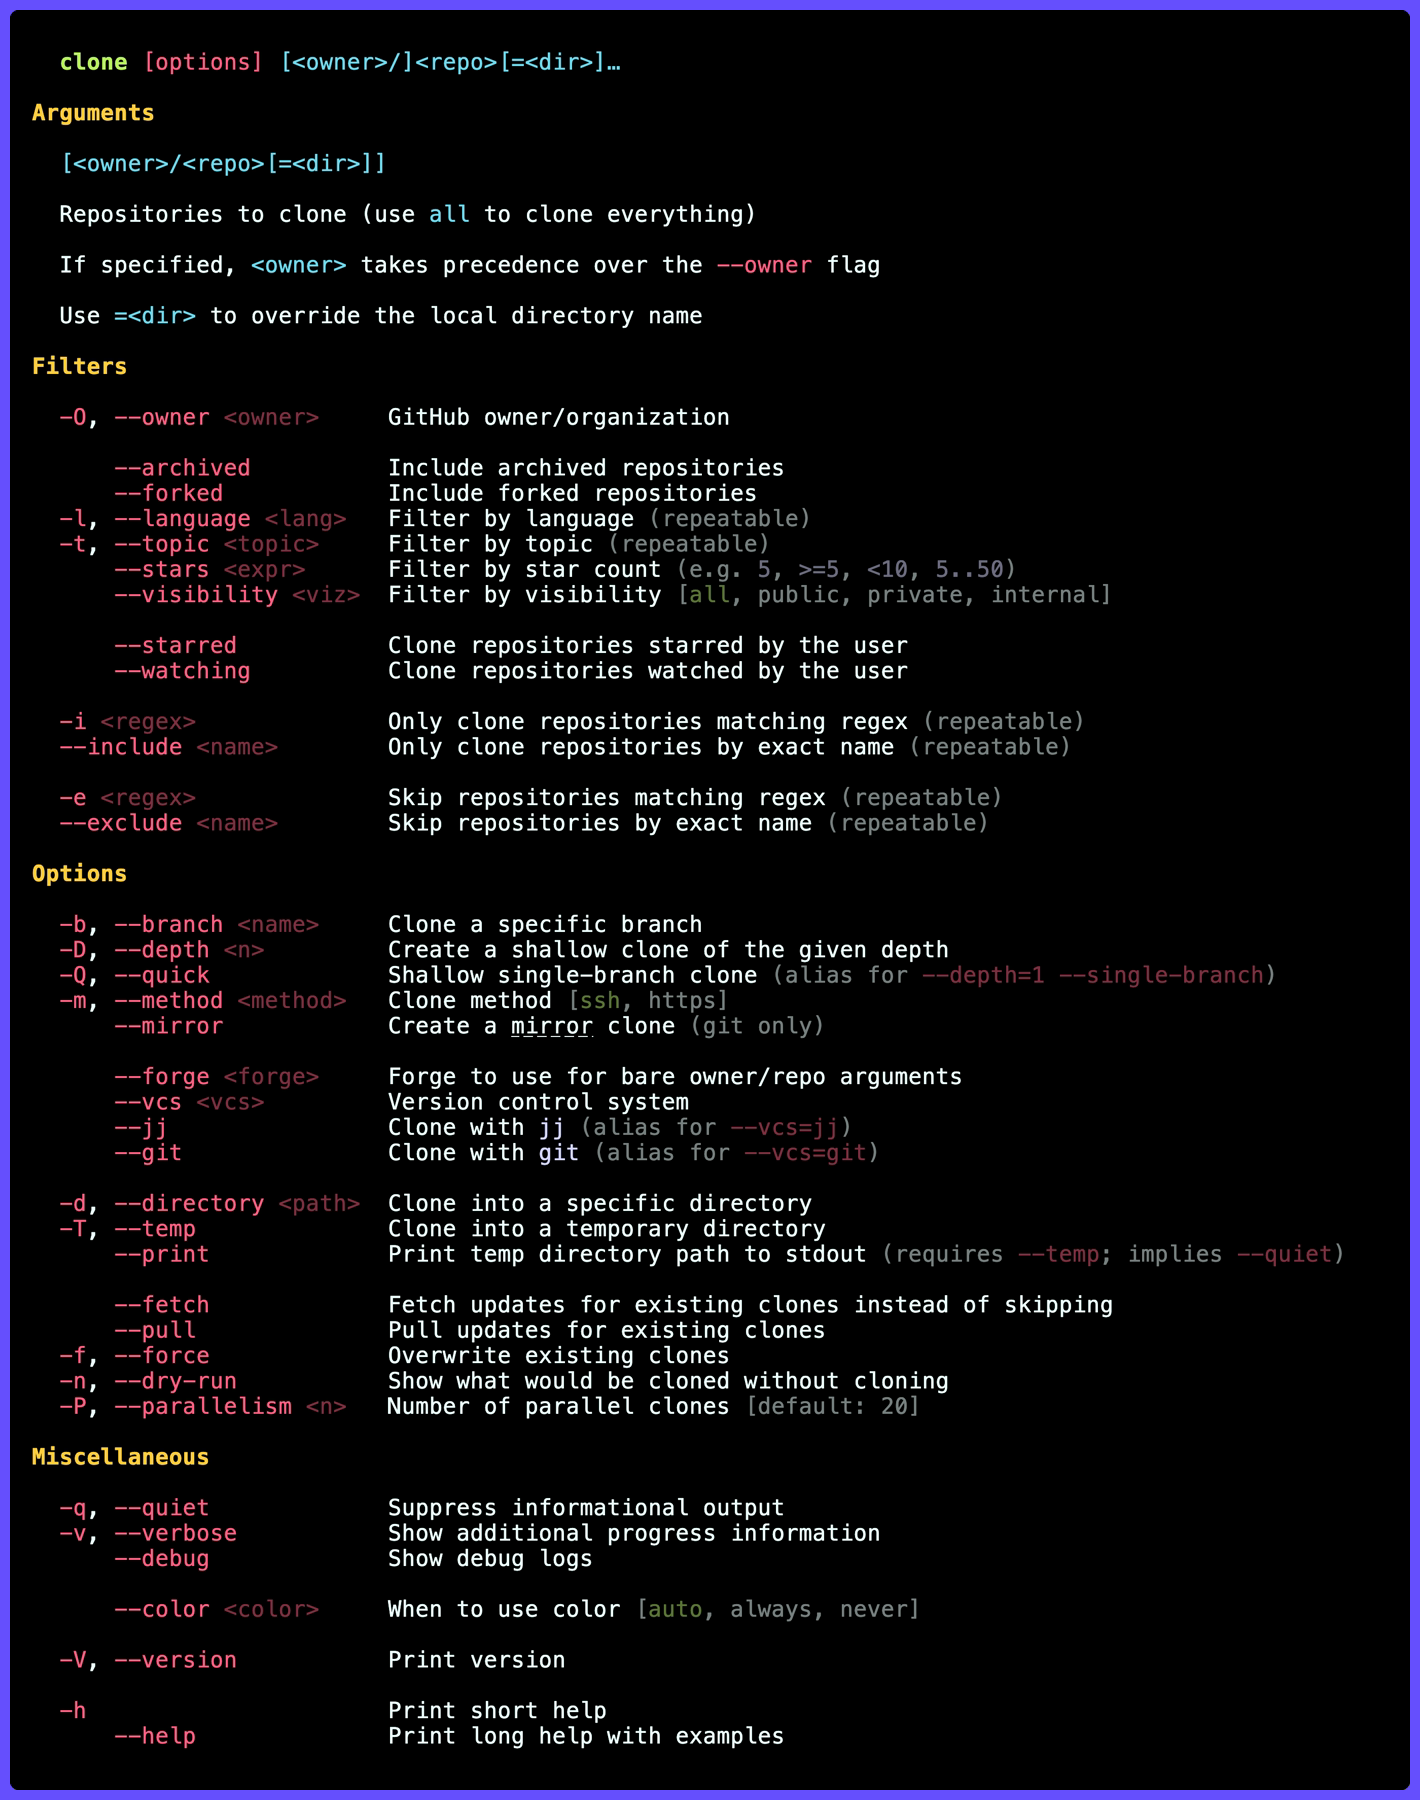
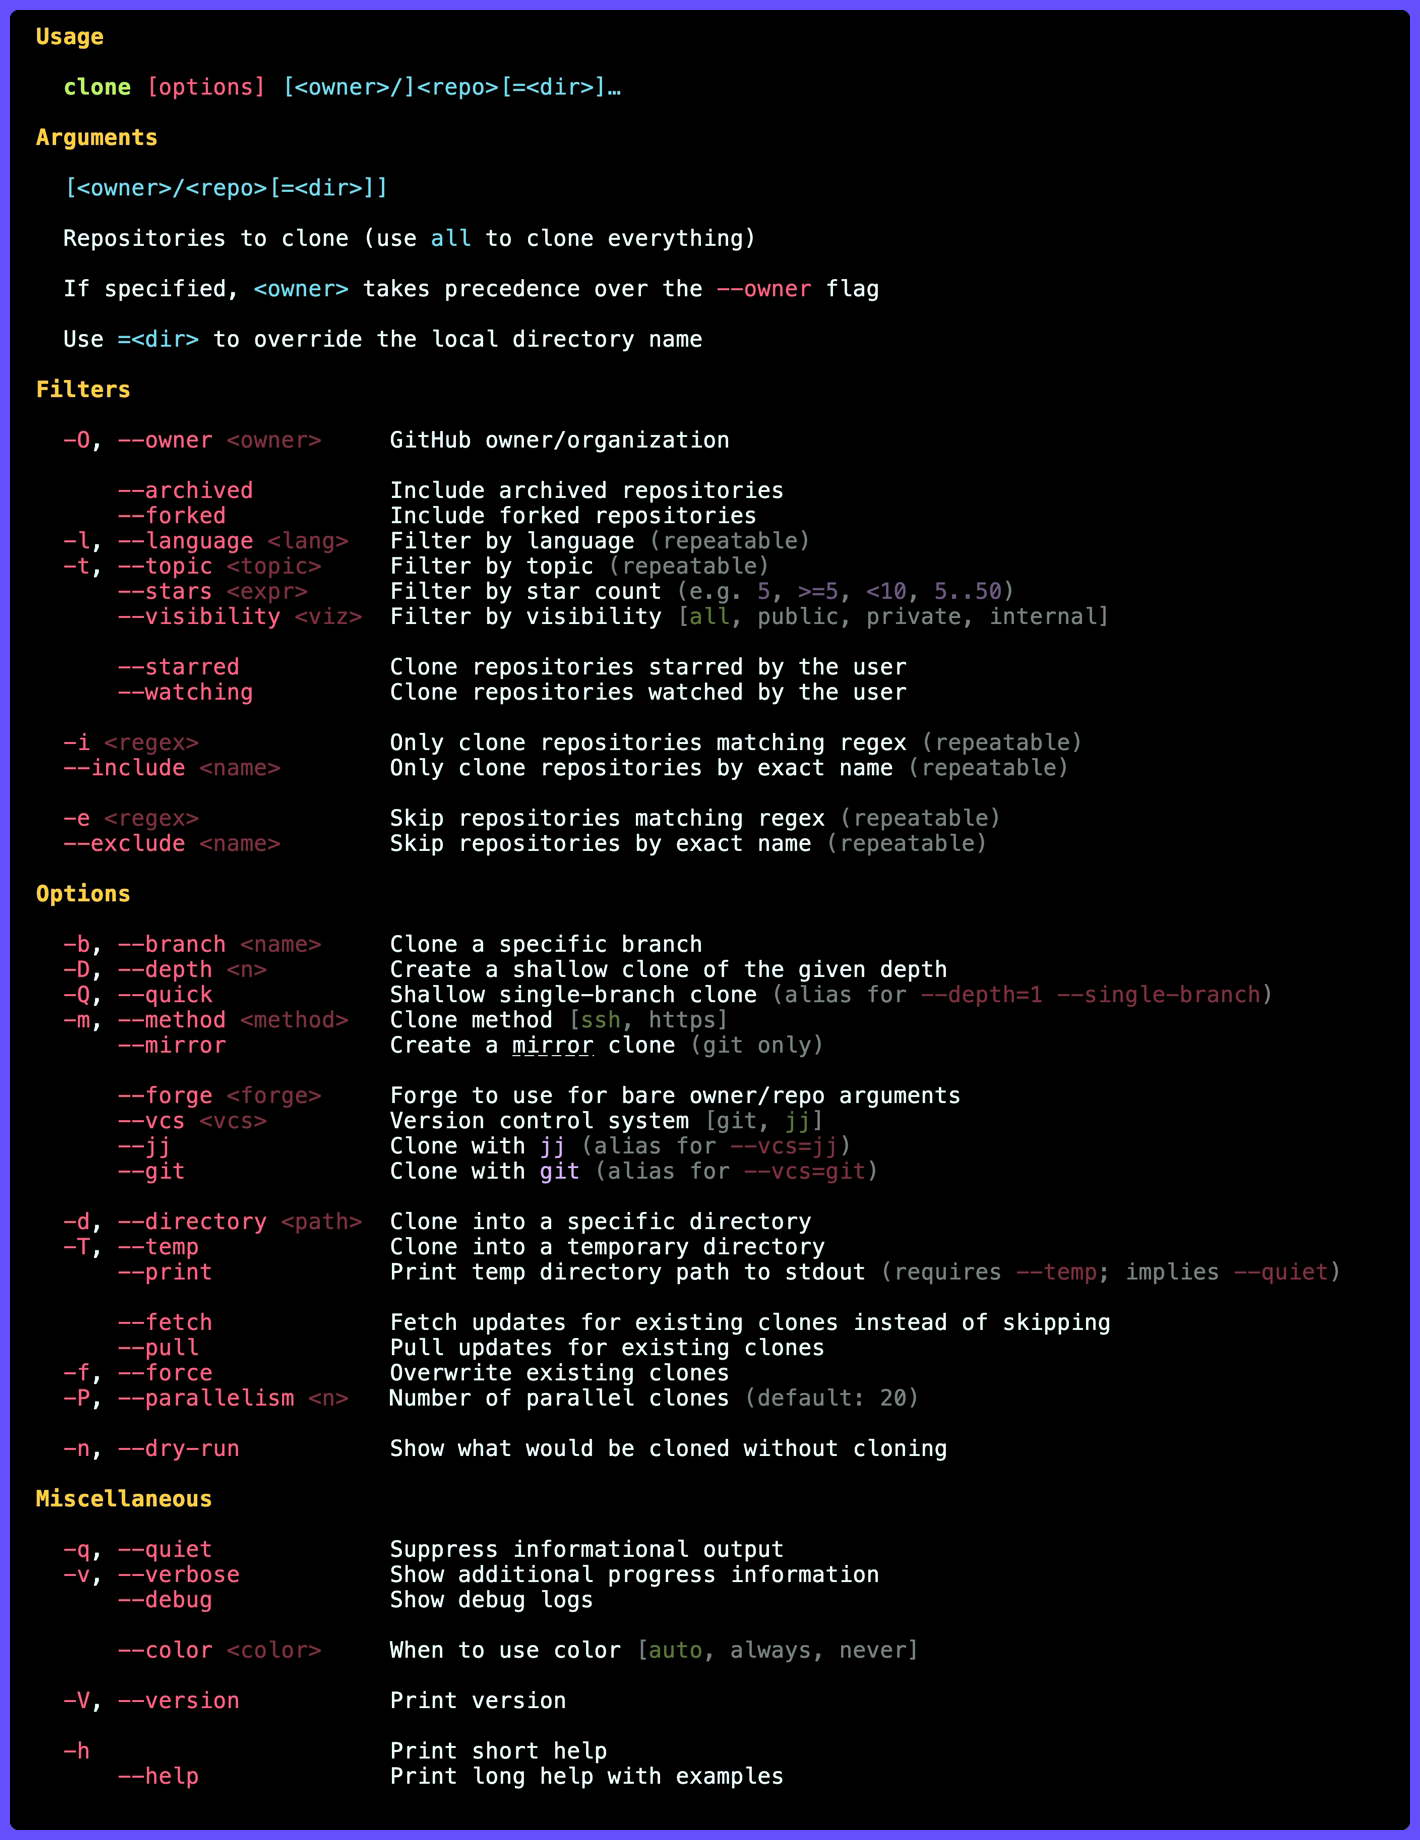
cli: Remove redundant `name:` struct tags

diff --git a/cli.go b/cli.go
@@ -4,7 +4,6 @@ import (
 	"fmt"
 	"os"
 	"slices"
-	"strconv"
 	"strings"
 
 	"github.com/alecthomas/kong"
@@ -37,17 +36,17 @@ type CLI struct {
 
 	Repos []string `name:"repo" help:"Repositories to clone." arg:"" optional:""`
 
-	Owner string `name:"owner" help:"GitHub owner/organization" short:"O" aliases:"org,organization" placeholder:"<owner>" clib:"terse='Owner/org',group='Filters/1'" env:"CLONE_OWNER"`
+	Owner string `help:"GitHub owner/organization" short:"O" aliases:"org,organization" placeholder:"<owner>" clib:"terse='Owner/org',group='Filters/1'" env:"CLONE_OWNER"`
 
-	Archived   bool     `name:"archived"   help:"Include archived repositories"   aliases:"archive,archives" clib:"terse='Include archived',group='Filters/2'"`
-	Forked     bool     `name:"forked"     help:"Include forked repositories"     aliases:"fork,forks"       clib:"terse='Include forked',group='Filters/2'"`
-	Languages  []string `name:"language"   help:"Filter by language (repeatable)"                            clib:"terse='Language',group='Filters/2'"         short:"l" placeholder:"<lang>"`
-	Topics     []string `name:"topic"      help:"Filter by topic (repeatable)"                               clib:"terse='Topic',group='Filters/2'"            short:"t" placeholder:"<topic>"`
-	Stars      string   "name:\"stars\"     help:\"Filter by star count (e.g. `5`, `>=5`, `<10`, `5..50`)\"                      clib:\"terse='Stars',group='Filters/2'\"                   placeholder:\"<expr>\""
-	Visibility string   `name:"visibility" help:"Filter by visibility"            aliases:"viz"              clib:"terse='Visibility',group='Filters/2'"                 placeholder:"<viz>"   default:"all" enum:"all,public,private,internal"`
+	Archived   bool     `help:"Include archived repositories"   aliases:"archive,archives" clib:"terse='Include archived',group='Filters/2'"`
+	Forked     bool     `help:"Include forked repositories"     aliases:"fork,forks"       clib:"terse='Include forked',group='Filters/2'"`
+	Languages  []string `help:"Filter by language (repeatable)"                            clib:"terse='Language',group='Filters/2'"         name:"language" short:"l" placeholder:"<lang>"`
+	Topics     []string `help:"Filter by topic (repeatable)"                               clib:"terse='Topic',group='Filters/2'"            name:"topic"    short:"t" placeholder:"<topic>"`
+	Stars      string   "help:\"Filter by star count (e.g. `5`, `>=5`, `<10`, `5..50`)\"                      clib:\"terse='Stars',group='Filters/2'\"                   placeholder:\"<expr>\""
+	Visibility string   `help:"Filter by visibility"            aliases:"viz"              clib:"terse='Visibility',group='Filters/2'"                                 placeholder:"<viz>"   default:"all" enum:"all,public,private,internal"`
 
-	Starred  bool `name:"starred"  help:"Clone repositories starred by the user" clib:"terse='Starred',group='Filters/3'"`
-	Watching bool `name:"watching" help:"Clone repositories watched by the user" clib:"terse='Watching',group='Filters/3'"`
+	Starred  bool `help:"Clone repositories starred by the user" clib:"terse='Starred',group='Filters/3'"`
+	Watching bool `help:"Clone repositories watched by the user" clib:"terse='Watching',group='Filters/3'"`
 
 	IncludePatterns []string `name:"include-pattern" help:"Only clone repositories matching regex (repeatable)" short:"i" placeholder:"<regex>" clib:"hide-long,terse='Include (regex)',group='Filters/4'"`
 	Includes        []string `name:"include"         help:"Only clone repositories by exact name (repeatable)"            placeholder:"<name>"  clib:"no-indent,terse='Include',group='Filters/4'"`
@@ -55,31 +54,32 @@ type CLI struct {
 	ExcludePatterns []string `name:"exclude-pattern" help:"Skip repositories matching regex (repeatable)" short:"e" placeholder:"<regex>" clib:"hide-long,terse='Exclude (regex)',group='Filters/5'"`
 	Excludes        []string `name:"exclude"         help:"Skip repositories by exact name (repeatable)"            placeholder:"<name>"  clib:"no-indent,terse='Exclude',group='Filters/5'"`
 
-	Branch      string `name:"branch"      help:"Clone a specific branch"                               short:"b" aliases:"bookmark" placeholder:"<name>"   clib:"terse='Branch',group='Options/1'"`
-	Depth       int    `name:"depth"       help:"Create a shallow clone of the given depth"             short:"D"                    placeholder:"<n>"      clib:"terse='Depth',group='Options/1'"                         xor:"shallow"`
-	Quick       bool   "name:\"quick\"     help:\"Shallow single-branch clone (alias for `--depth=1 --single-branch`)\" short:\"Q\"                                         clib:\"terse='Quick clone',group='Options/1'\"                 xor:\"shallow\""
-	Method      string `name:"method"      help:"Clone method"                                          short:"m"                    placeholder:"<method>" clib:"terse='Clone method',enum='ssh,https',group='Options/1'"                 default:"ssh" enum:"ssh,https,http" env:"CLONE_METHOD"`
-	Mirror      bool   `name:"mirror"      help:"Create a mirror clone"                                                                                     clib:"terse='Mirror clone',group='Options/1'"                  xor:"fetch"`
-	Forge       string `name:"forge"       help:"Forge to use for bare owner/repo arguments"                                         placeholder:"<forge>"  clib:"terse='Forge',group='Options/2'"`
-	VCS         string `name:"vcs"         help:"Version control system"                                                             placeholder:"<vcs>"    clib:"terse='VCS',enum='git,jj',group='Options/2'"                             default:"git" enum:"git,jj"`
-	JJ          bool   "name:\"jj\"        help:\"Clone with `jj` (alias for `--vcs=jj`)\"                                                                                  clib:\"terse='Jujutsu',group='Options/2'\"                                                                                        xor:\"vcs\""
-	Git         bool   "name:\"git\"       help:\"Clone with `git` (alias for `--vcs=git`)\"                                                                                clib:\"terse='Git',group='Options/2'\"                                                                                            xor:\"vcs\""
-	Directory   string `name:"directory"   help:"Clone into a specific directory"                       short:"d" aliases:"dir"      placeholder:"<path>"   clib:"terse='Directory',group='Options/3'"                     xor:"location"                                                         type:"path"`
-	Temp        bool   `name:"temp"        help:"Clone into a temporary directory"                      short:"T"                                           clib:"terse='Temporary directory',group='Options/3'"           xor:"location"`
-	Print       bool   "name:\"print\"     help:\"Print temp directory path to stdout (requires `--temp`; implies `--quiet`)\"                                              clib:\"terse='Print temp path',group='Options/3'\""
-	Fetch       bool   `name:"fetch"       help:"Fetch updates for existing clones instead of skipping"                                                     clib:"terse='Fetch existing',group='Options/4'"                xor:"fetch"`
-	Pull        bool   `name:"pull"        help:"Pull updates for existing clones"                                                                          clib:"terse='Pull existing',group='Options/4'"`
-	Force       bool   `name:"force"       help:"Overwrite existing clones"                             short:"f"                                           clib:"terse='Force overwrite',group='Options/4'"               xor:"fetch"`
-	DryRun      bool   `                   help:"Show what would be cloned without cloning"             short:"n" aliases:"dry"                             clib:"terse='Dry run',group='Options/4'"`
-	Parallelism int    `name:"parallelism" help:"Number of parallel clones"                             short:"P"                    placeholder:"<n>"      clib:"terse='Parallelism',group='Options/4'"                                   default:"20"`
-	Quiet       bool   `name:"quiet"       help:"Suppress informational output"                         short:"q"                                           clib:"terse='Quiet',group='Miscellaneous/2'"                   xor:"verbosity"`
-	Verbose     bool   `name:"verbose"     help:"Show additional progress information"                  short:"v"                                           clib:"terse='Verbose',group='Miscellaneous/2'"                 xor:"verbosity"`
-	Debug       bool   `name:"debug"       help:"Show debug logs"                                                                                           clib:"terse='Debug logs',group='Miscellaneous/2'"              xor:"verbosity"`
+	Branch      string `help:"Clone a specific branch"                               short:"b" aliases:"bookmark" placeholder:"<name>"   clib:"terse='Branch',group='Options/1'"`
+	Depth       int    `help:"Create a shallow clone of the given depth"             short:"D"                    placeholder:"<n>"      clib:"terse='Depth',group='Options/1'"                         xor:"shallow"`
+	Quick       bool   "help:\"Shallow single-branch clone (alias for `--depth=1 --single-branch`)\" short:\"Q\"                                         clib:\"terse='Quick clone',group='Options/1'\"                 xor:\"shallow\""
+	Method      string `help:"Clone method"                                          short:"m"                    placeholder:"<method>" clib:"terse='Clone method',enum='ssh,https',group='Options/1'"                 default:"ssh" enum:"ssh,https,http" env:"CLONE_METHOD"`
+	Mirror      bool   `help:"Create a mirror clone"                                                                                     clib:"terse='Mirror clone',group='Options/1'"                  xor:"fetch"`
+	Forge       string `help:"Forge to use for bare owner/repo arguments"                                         placeholder:"<forge>"  clib:"terse='Forge',group='Options/2'"`
+	VCS         string `help:"Version control system"                                                             placeholder:"<vcs>"    clib:"terse='VCS',enum='git,jj',group='Options/2'"                             default:"git" enum:"git,jj"`
+	JJ          bool   "help:\"Clone with `jj` (alias for `--vcs=jj`)\"                                                                                  clib:\"terse='Jujutsu',group='Options/2'\"                                                                                        xor:\"vcs\""
+	Git         bool   "help:\"Clone with `git` (alias for `--vcs=git`)\"                                                                                clib:\"terse='Git',group='Options/2'\"                                                                                            xor:\"vcs\""
+	Directory   string `help:"Clone into a specific directory"                       short:"d" aliases:"dir"      placeholder:"<path>"   clib:"terse='Directory',group='Options/3'"                     xor:"location"                                                         type:"path"`
+	Temp        bool   `help:"Clone into a temporary directory"                      short:"T"                                           clib:"terse='Temporary directory',group='Options/3'"           xor:"location"`
+	Print       bool   "help:\"Print temp directory path to stdout (requires `--temp`; implies `--quiet`)\"                                              clib:\"terse='Print temp path',group='Options/3'\""
+	Fetch       bool   `help:"Fetch updates for existing clones instead of skipping"                                                     clib:"terse='Fetch existing',group='Options/4'"                xor:"fetch"`
+	Pull        bool   `help:"Pull updates for existing clones"                                                                          clib:"terse='Pull existing',group='Options/4'"`
+	Force       bool   `help:"Overwrite existing clones"                             short:"f"                                           clib:"terse='Force overwrite',group='Options/4'"               xor:"fetch"`
+	Parallelism int    `help:"Number of parallel clones"                             short:"P"                    placeholder:"<n>"      clib:"terse='Parallelism',group='Options/4'"                                   default:"20"`
+	Quiet       bool   `help:"Suppress informational output"                         short:"q"                                           clib:"terse='Quiet',group='Miscellaneous/2'"                   xor:"verbosity"`
+	Verbose     bool   `help:"Show additional progress information"                  short:"v"                                           clib:"terse='Verbose',group='Miscellaneous/2'"                 xor:"verbosity"`
+	Debug       bool   `help:"Show debug logs"                                                                                           clib:"terse='Debug logs',group='Miscellaneous/2'"              xor:"verbosity"`
 
-	Color   clog.ColorMode `name:"color"   help:"When to use color" aliases:"colour" clib:"terse='Color mode',group='Miscellaneous/1'" default:"auto" enum:"auto,always,never"`
-	Version bool           `name:"version" help:"Print version"                      clib:"terse='Version',group='Miscellaneous/3'"                                            short:"V"`
+	DryRun bool `help:"Show what would be cloned without cloning" short:"n" aliases:"dry" clib:"terse='Dry run',group='Options/5'"`
 
-	Height float64 `name:"height" help:"Maximum height as a percentage of the terminal (0.0-1.0)." hidden:"" default:"0.5"`
+	Color   clog.ColorMode `help:"When to use color" aliases:"colour" clib:"terse='Color mode',group='Miscellaneous/1'" default:"auto" enum:"auto,always,never"`
+	Version bool           `help:"Print version"                      clib:"terse='Version',group='Miscellaneous/3'"                                            short:"V"`
+
+	Height float64 `help:"Maximum height as a percentage of the terminal (0.0-1.0)." hidden:"" default:"0.5"`
 
 	binGit      string `kong:"-"`
 	binJJ       string `kong:"-"`
@@ -315,7 +315,6 @@ func buildParser(cli *CLI) *kong.Kong {
 			cloneHelpSections(th),
 			help.WithHelpFlags("Print short help", "Print long help with examples"),
 			cloneHelpOrdering(),
-			help.WithFlagDefault("parallelism", strconv.Itoa(defaultParallelism)),
 			help.WithLongHelp(os.Args, buildExamplesSection()),
 		)),
 	)